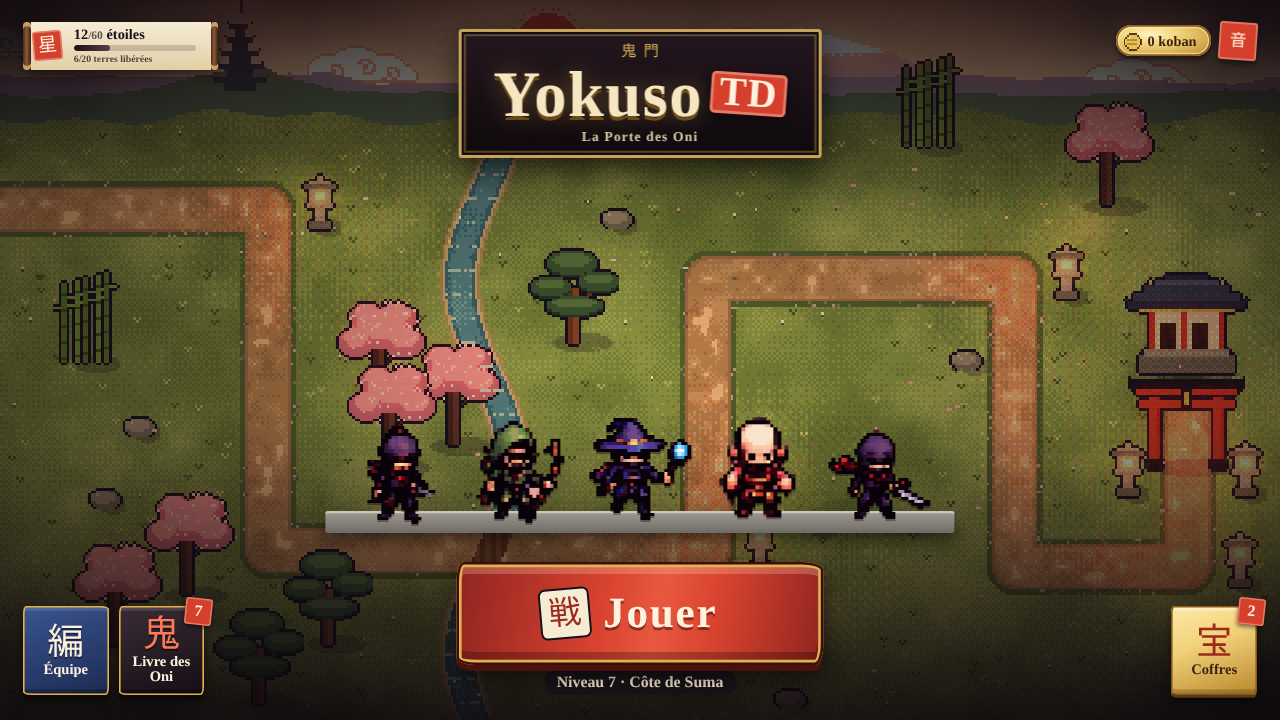
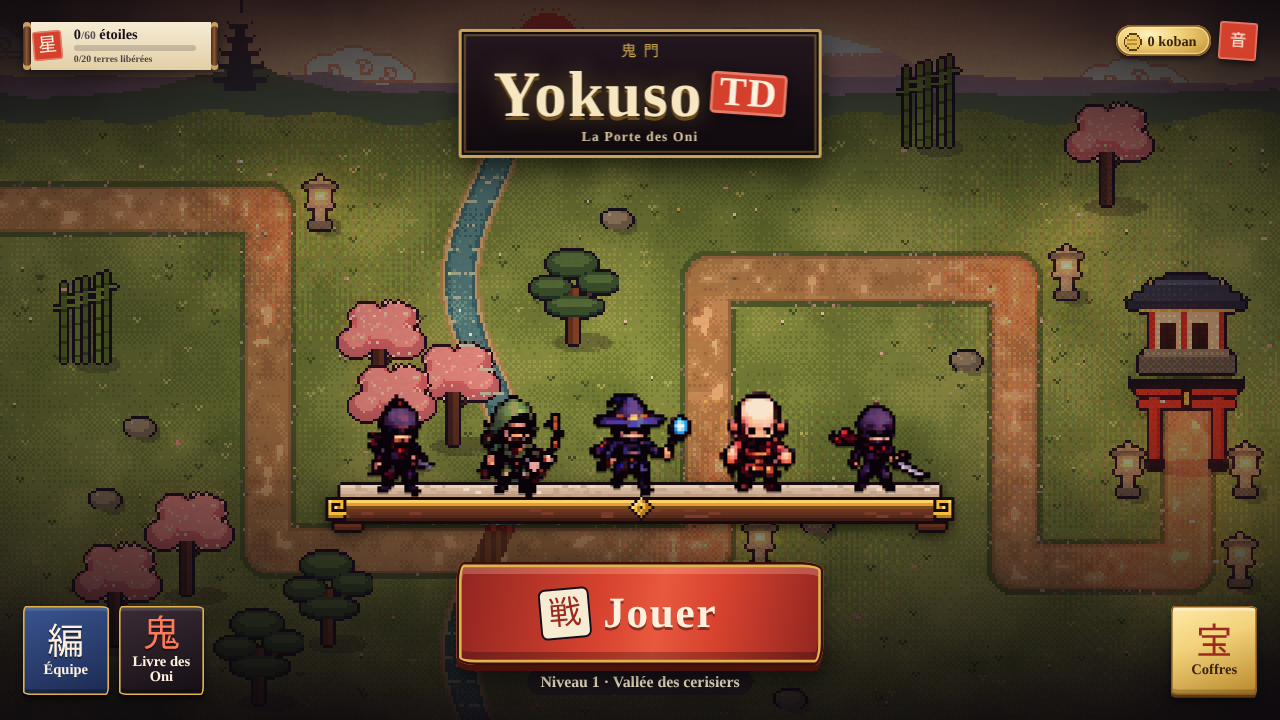
Écran titre : étagère en bois sous les héros
Remplace la dalle de pierre par une étagère en bois dessinée en pixel art (plateau clair, filet doré, volutes, ornement central), à la largeur de l'équipe. Ajoute l'entrée 1.1.1 au CHANGELOG et met à jour la capture de l'écran titre.

Claude-Session: https://claude.ai/code/session_01Mp2u4D8kdLiLLTd2KSATPv

diff --git a/index.html b/index.html
@@ -375,6 +375,9 @@ html,body{margin:0;height:100%;background:#0c080d;overflow:hidden;font:600 16px/
 .bt-go:active,.bt-sq:active{transform:translateY(.1em);box-shadow:inset 0 0 0 .1em var(--gold),0 .05em 0 #0c070b}
 .bt-go:focus-visible,.bt-sq:focus-visible,.bt-hanko:focus-visible{outline:.15em solid var(--gold);outline-offset:.2em}
 @media (max-aspect-ratio:1.5){.bt-sq{width:4.6em;height:4.8em}}
+#title .cast{padding-bottom:calc(var(--plankH,30px)*.64)}
+#title .cast::before{height:var(--plankH,30px);left:0;right:0;bottom:0;background:var(--plank) left top/100% 100% no-repeat;image-rendering:pixelated;border-radius:0;box-shadow:none;filter:drop-shadow(0 .35em .4em rgba(0,0,0,.55))}
+
 
 /* ---------- livre des Oni : pages de washi, sceaux et encre ---------- */
 .bk-count{color:var(--ink);background:linear-gradient(#f6ecd4,#e2cfa6);border-radius:1em;padding:.2em .9em;font-weight:800;box-shadow:0 0 0 2px var(--ink)}
@@ -1550,7 +1553,7 @@ const kobanHTML=()=>`<img src="${KOBAN}" alt="">${SV.koban} koban`;
 function goTitle(){hideAll();setState('title');$('#hud').classList.add('off');show('#title',true);$('#chestCount').textContent=SV.chests.length||'';$('#chestCount').style.display=SV.chests.length?'':'none';
   const st=Object.values(SV.stars).reduce((a,b)=>a+b,0),done=Object.keys(SV.stars).length;$('#tStars').textContent=st;$('#tStarsMax').textContent='/'+LEVELS.length*3;$('#tBar').style.width=(done/LEVELS.length*100)+'%';$('#tLv').textContent=`${done}/${LEVELS.length} terres libérées`;{const nb=SV.seen.length-(SV.bookSeen||0);$('#bookNew').textContent=nb>0?nb:''}$('#tMute').setAttribute('aria-pressed',muted);$('#tKoban').innerHTML=kobanHTML();
   const NL=LEVELS.length;$('#tProg').textContent=done>=NL?'Toutes les terres libérées':`Niveau ${Math.min(NL,done+1)} · ${LEVELS[Math.min(NL-1,done)].name}`;
-  $('#cast').innerHTML=SV.deck.filter(Boolean).map((k,i)=>`<div class="hero" style="--d:${i*.37}s"><img src="${ICONS[k]}" alt="${CL[k].name}"><span>${CL[k].name}</span></div>`).join('')}
+  $('#cast').innerHTML=SV.deck.filter(Boolean).map((k,i)=>`<div class="hero" style="--d:${i*.37}s"><img src="${ICONS[k]}" alt="${CL[k].name}"><span>${CL[k].name}</span></div>`).join('');requestAnimationFrame(placePlank)}
 /* ---------- carte du pays illustrée ---------- */
 const WMW=320,WMH=180;
 const WNODES=[[46,146],[80,132],[108,114],[138,126],[166,106],[194,92],[224,116],[246,74],[274,58],[298,30]];
@@ -1656,6 +1659,33 @@ function goLevelsCard(){const i=wSel,L=LEVELS[i],st=SV.stars[i+1]||0,th=GEN[i]?G
   $('#wPlay').onclick=()=>{initAudio();startLevel(i)}}
 function startLevel(i){if(!SV.deck.some(Boolean)){goTeam();return}hideAll();reset(i);setState('play');renderDeck();$('#hud').classList.remove('off');$('#hint').style.opacity=1;preview();sfx('build');bannerTxt(LV.kj,`Niveau ${i+1} — ${LV.name}`)}
 
+
+/* ---------- étagère en bois sous les héros de l'écran titre (pixel art dessiné en code) ---------- */
+function drawPlank(w){const H=17,[c,g]=mk(w,H),K='#150a0e';
+  const pat=(rows,x0,y0,flip)=>rows.forEach((r,y)=>[...r].forEach((ch,x)=>{const C={K,G:'#f2bc3c',Y:'#ffe08a',g:'#b8781e',D:'#3a1a12'}[ch];if(C)P(g,flip?x0-x:x0+x,y0+y,C)}));
+  // plateau clair, légèrement en retrait
+  R(g,5,0,w-10,1,K);
+  const top=['#e6cdb4','#d6b89e','#d0b096','#bd9c82'];
+  for(let y=1;y<5;y++){R(g,4,y,w-8,1,top[y-1]);for(let x=6;x<w-6;x++){const h=hash(x>>1,y+((x>>3)%3));if(y>1&&h>.86)P(g,x,y,'#c4a488');else if(y<4&&h<.06)P(g,x,y,'#ecd8c4')}}
+  for(let x=10;x<w-10;x+=23){const L=6+(x*7%5);for(let k=0;k<L;k++)P(g,x+k,1+((k>>1)%3),'#c9aa90')}
+  R(g,4,1,1,4,K);R(g,w-5,1,1,4,K);
+  // filet sombre, filet doré, façade
+  R(g,1,5,w-2,1,K);R(g,1,6,w-2,1,'#ffd06a');R(g,1,7,w-2,1,'#e0a030');R(g,1,8,w-2,1,'#7a4a1a');
+  const fr=['#6e3424','#62301f','#56291b'];for(let y=9;y<12;y++){R(g,1,y,w-2,1,fr[y-9]);for(let x=2;x<w-2;x++)if(hash(x>>2,y)>.9)P(g,x,y,'#7a3c28')}
+  R(g,1,12,w-2,1,'#3a1a12');R(g,2,13,w-4,1,K);R(g,0,5,1,8,K);R(g,w-1,5,1,8,K);
+  // pieds
+  for(const fx of[3,w-12]){R(g,fx,14,9,2,'#4a2216');R(g,fx,14,9,1,'#5e2c1c');R(g,fx-1,14,1,2,K);R(g,fx+9,14,1,2,K);R(g,fx,16,9,1,K)}
+  // volutes dorées aux extrémités
+  const cap=['KKKKKKK','KYGGGGK','KGKKKGK','KGKYgGK','KGKKKKK','KGGGGGG','KgggggK','KKKKKKK'];
+  pat(cap,0,5,0);pat(cap,w-1,5,1);
+  // ornement central
+  const o=['....K....','...KYK...','..KYGgK..','.KYGYGgK.','KYGgKGggK','.KGgGggK.','..KGggK..','...KgK...','....K....'];
+  pat(o,(w>>1)-4,4,0);
+  return c}
+function placePlank(){const el=$('#cast');if(!el||!$('#title').classList.contains('show'))return;const r=el.getBoundingClientRect();if(!r.width)return;
+  const u=parseFloat(getComputedStyle(document.body).getPropertyValue('--u'))||7,s=Math.max(2,Math.round(u*6.8/17)),w=Math.max(40,Math.round(r.width/s));
+  el.style.setProperty('--plank',`url(${drawPlank(w).toDataURL()})`);el.style.setProperty('--plankH',(17*s)+'px')}
+addEventListener('resize',()=>requestAnimationFrame(placePlank));
 /* ---------- livre des Oni ---------- */
 const BOOK={
  aka:{d:"Le soldat de base de la horde, massue à l'épaule. Ni rapide ni très solide, mais toujours en nombre.",

diff --git a/CHANGELOG.md b/CHANGELOG.md
@@ -2,6 +2,12 @@
 
 Les changements notables de YokusoTD, du plus récent au plus ancien.
 
+## 1.1.1 · 27 novembre 2026
+
+### Modifié
+
+- Sur l'écran titre, les héros se tiennent sur une étagère en bois laqué (plateau clair, filet doré, volutes et ornement central) à la place de la dalle de pierre. Elle s'adapte au nombre de personnages de l'équipe.
+
 ## 1.1.0 · 27 novembre 2026
 
 ### Ajouté
